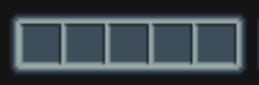
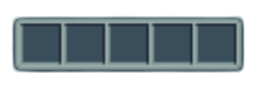
Updated inventory display

diff --git a/source/core/src/main/com/csse3200/game/components/inventory/InventoryDisplay.java b/source/core/src/main/com/csse3200/game/components/inventory/InventoryDisplay.java
@@ -1,2 +1,49 @@
-package com.csse3200.game.components.inventory;public class InventoryDisplay {
+package com.csse3200.game.components.inventory;
+
+import com.badlogic.gdx.graphics.Texture;
+import com.badlogic.gdx.graphics.g2d.SpriteBatch;
+import com.badlogic.gdx.scenes.scene2d.ui.Image;
+import com.badlogic.gdx.scenes.scene2d.ui.Table;
+import com.badlogic.gdx.scenes.scene2d.utils.TextureRegionDrawable;
+import com.csse3200.game.entities.Entity;
+import com.csse3200.game.services.ServiceLocator;
+import com.csse3200.game.ui.UIComponent;
+
+public class InventoryDisplay extends UIComponent {
+    private Table table;
+    private static final String[] inventoryTextures = {
+        "images/inventory.png",
+    };
+
+    @Override
+    public void create() {
+        super.create();
+        addActors();
+    }
+
+    private void addActors() {
+        table = new Table();
+        table.top();
+        table.setFillParent(true);
+
+        // Load inventory slot textures
+        for (String texturePath : inventoryTextures) {
+            Texture texture = ServiceLocator.getResourceService().getAsset(texturePath, Texture.class);
+            Image slotImage = new Image(new TextureRegionDrawable(texture));
+            table.add(slotImage).pad(5);
+        }
+
+        stage.addActor(table);
+    }
+
+    @Override
+    public void draw(SpriteBatch batch) {
+        // Drawing is handled by the stage actors
+    }
+
+    @Override
+    public void dispose() {
+        super.dispose();
+        table.clear();
+    }
 }

diff --git a/source/core/src/main/com/csse3200/game/screens/MainGameScreen.java b/source/core/src/main/com/csse3200/game/screens/MainGameScreen.java
@@ -6,6 +6,7 @@ import com.badlogic.gdx.scenes.scene2d.Stage;
 import com.csse3200.game.GdxGame;
 import com.csse3200.game.areas.ForestGameArea;
 import com.csse3200.game.areas.terrain.TerrainFactory;
+import com.csse3200.game.components.inventory.InventoryDisplay;
 import com.csse3200.game.components.maingame.MainGameActions;
 import com.csse3200.game.entities.Entity;
 import com.csse3200.game.entities.EntityService;
@@ -34,8 +35,15 @@ import org.slf4j.LoggerFactory;
  */
 public class MainGameScreen extends ScreenAdapter {
   private static final Logger logger = LoggerFactory.getLogger(MainGameScreen.class);
-  private static final String[] mainGameTextures = {"images/heart.png"};
+  private static final String[] mainGameTextures = {"images/heart.png",
+      "images/inventory.png"};
+//      "images/inventory_slot1.png",
+//      "images/inventory_slot2.png",
+//      "images/inventory_slot3.png",
+//      "images/inventory_slot4.png",
+//      "images/inventory_slot5.png"
   private static final Vector2 CAMERA_POSITION = new Vector2(7.5f, 7.5f);
+
 
   private final GdxGame game;
   private final Renderer renderer;
@@ -137,7 +145,8 @@ public class MainGameScreen extends ScreenAdapter {
         .addComponent(new MainGameExitDisplay())
         .addComponent(new Terminal())
         .addComponent(inputComponent)
-        .addComponent(new TerminalDisplay());
+        .addComponent(new TerminalDisplay())
+        .addComponent(new InventoryDisplay());
 
     ServiceLocator.getEntityService().register(ui);
   }
